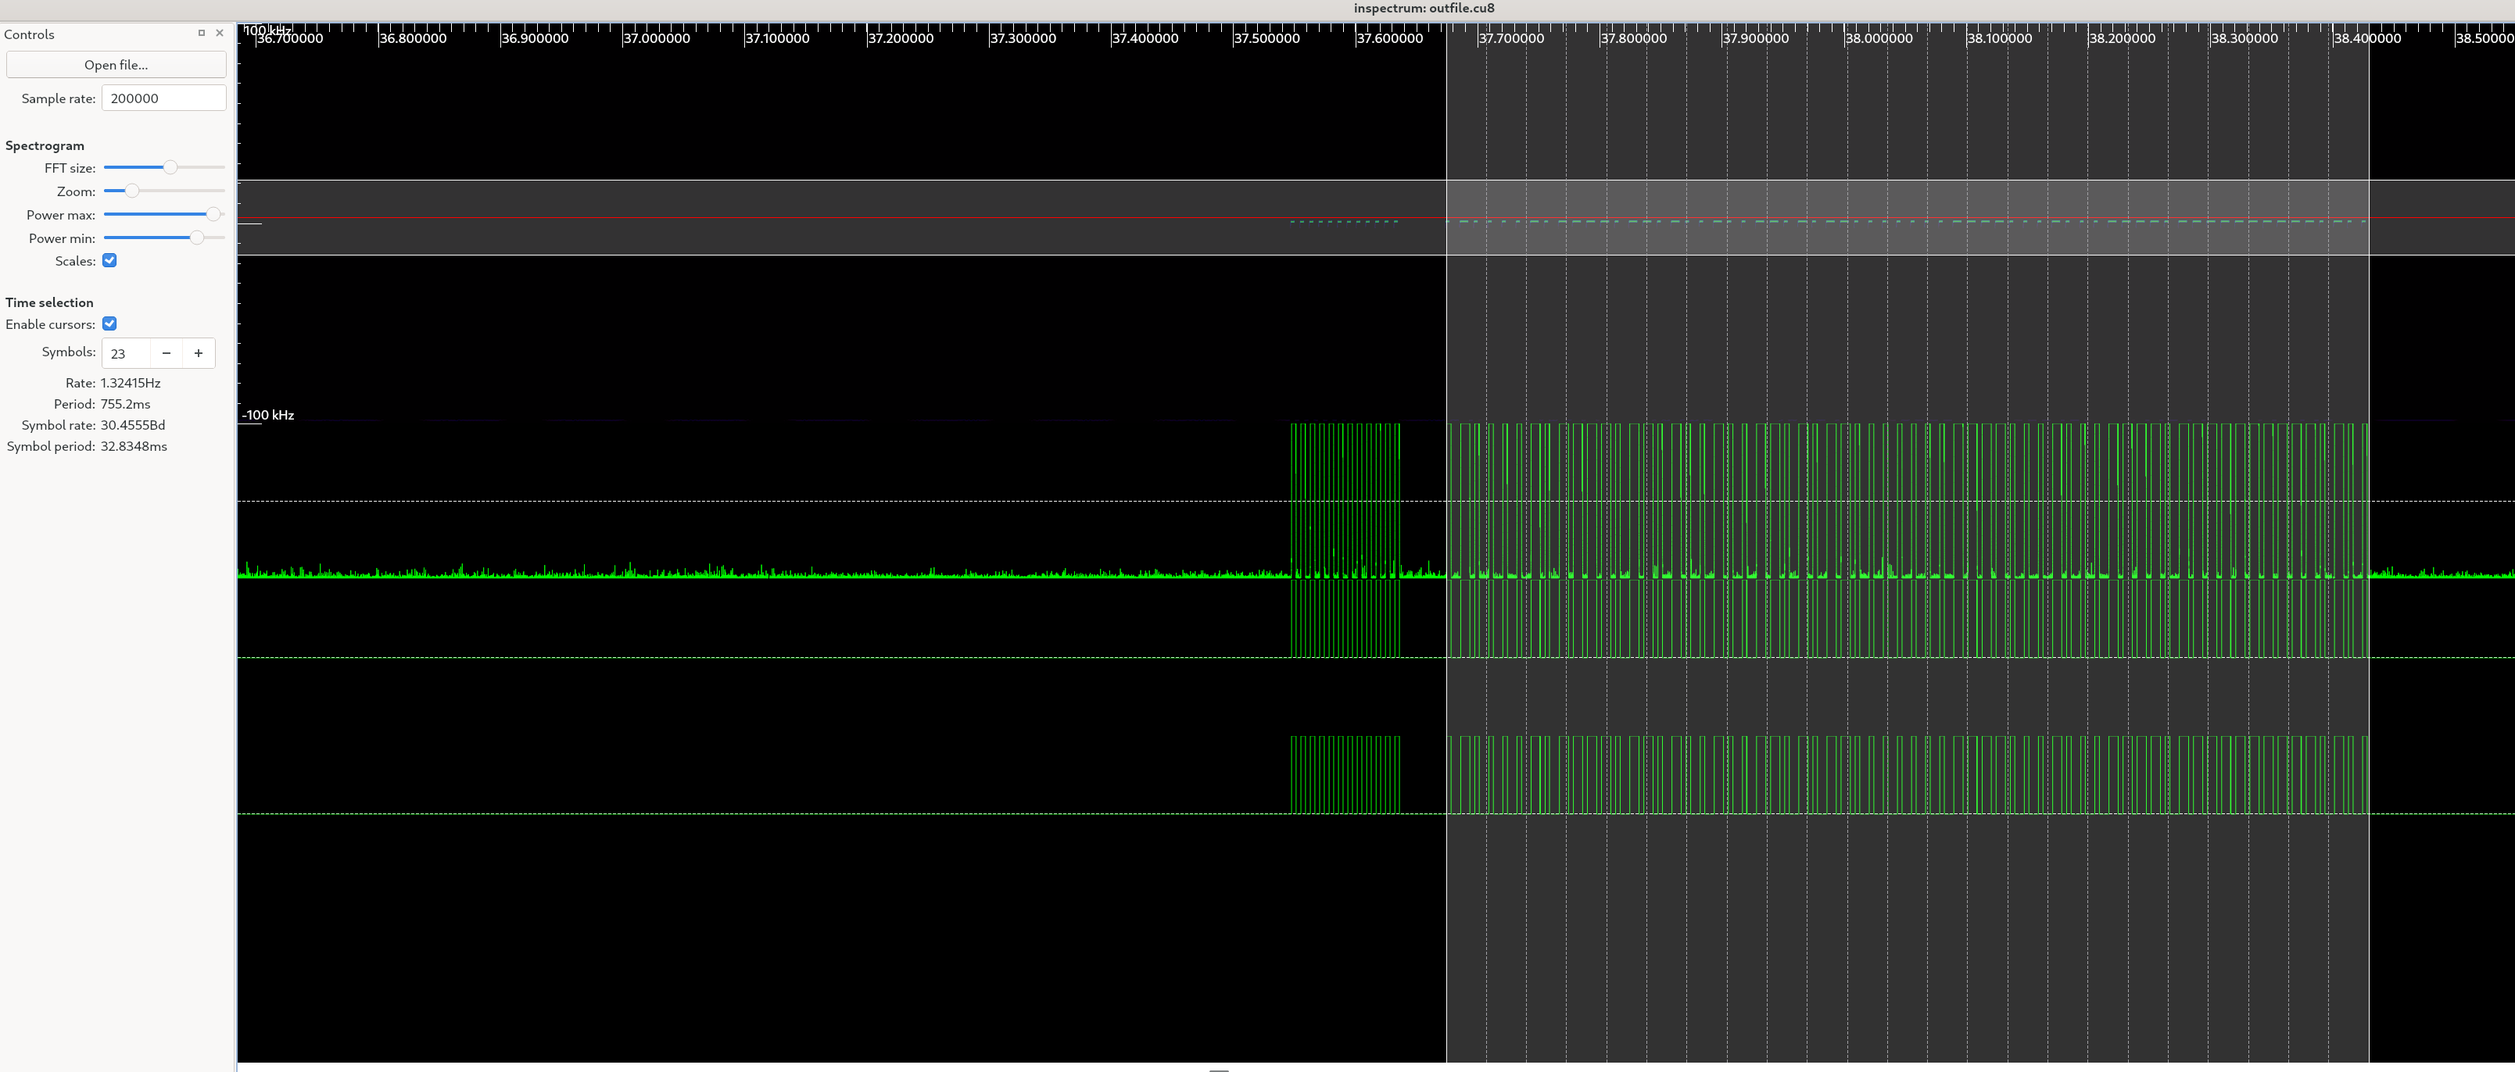
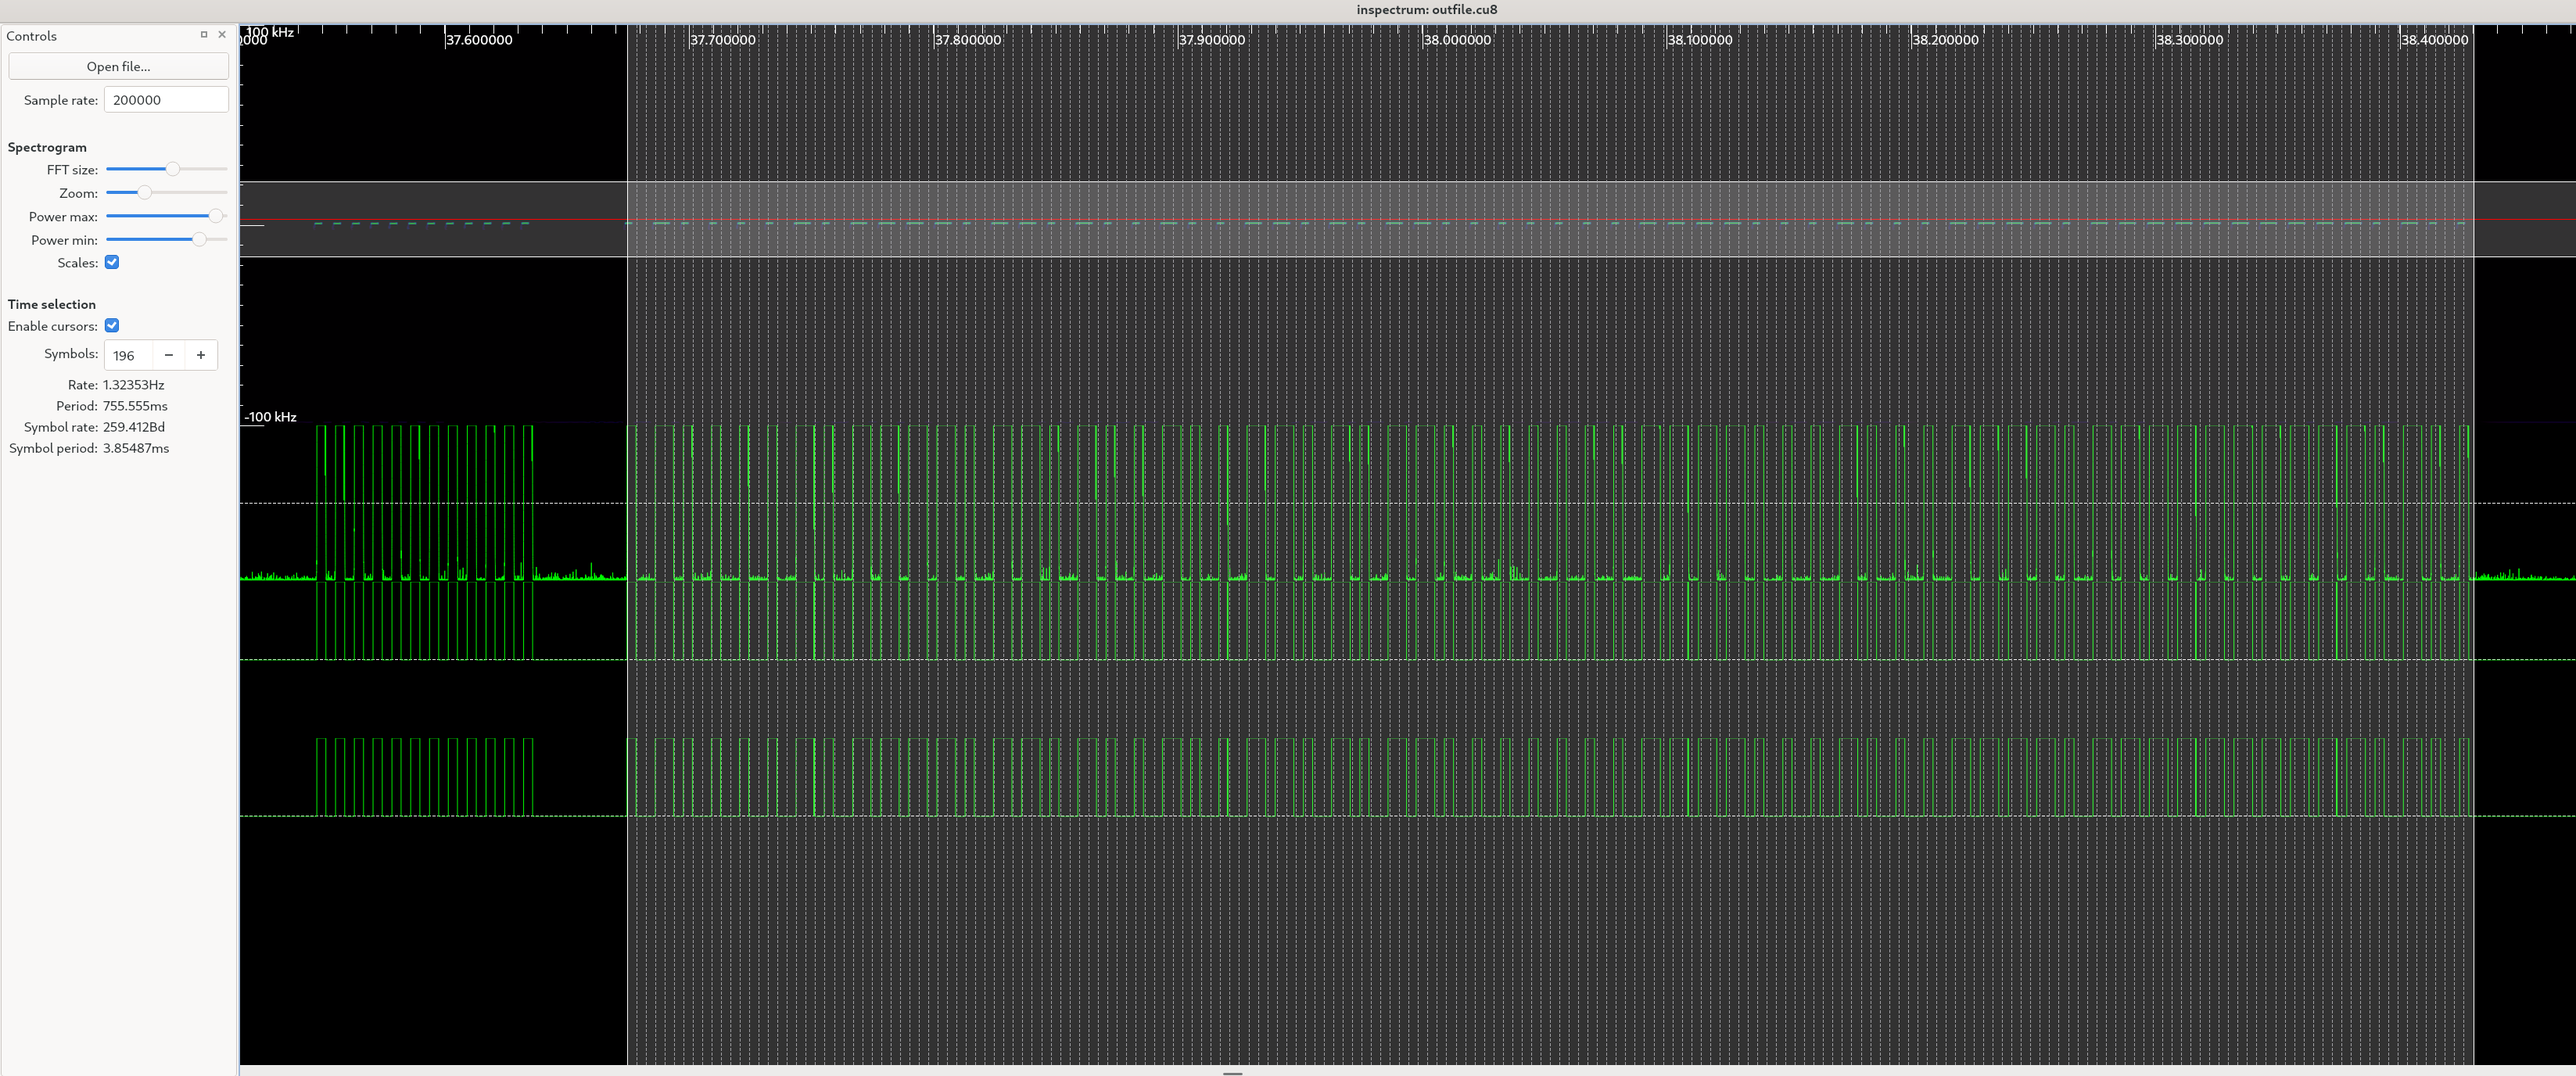
Update incorrect data cursor image and output data

diff --git a/doc/rf.md b/doc/rf.md
@@ -964,14 +964,18 @@ generate values:
 ```console
 1, 0, 1, 0, 1, 0, 1, 0, 1, 0, 1, 0, 1, 0, 1, 0, 1, 0, 1, 0, 1, 0, 1,
 ```
-So this does look like a preable, alternating 1 and 0.
+So this does look like a preable, alternating 1 and 0. The above gave us a
+symbol rate. We can move the cursor to the next section and then use the `+`
+button to increase the size of the cursor but still keeping the symbol rate
+(at least I think this is how to do it).
 
 Now, we can to the same with the next signals:
 
 ![Inspectrum Data Cursors image](./img/inspectrum-data-cursor.png "Inspectrum data cursors image")
 
 ```console
-1, 1, 1, 0, 0, 0, 0, 0, 1, 1, 0, 0, 0, 1, 1, 1, 0, 0, 1, 1, 1, 1, 1,
+1, 1, 1, 0, 0, 0, 0, 0, 1, 1, 0, 0, 0, 1, 1, 1, 0, 0, 1, 1, 1, 1, 1, 
+1, 0, 0, 1, 1, 0, 1, 0, 0, 1, 0, 0, 1, 0, 0, 1, 0, 0, 1, 1, 0, 1, 0, 0, 1, 1, 0, 1, 1, 0, 1, 1, 0, 1, 1, 0, 1, 0, 0, 1, 1, 0, 1, 1, 0, 1, 0, 0, 1, 1, 0, 1, 0, 0, 1, 0, 0, 1, 1, 0, 1, 0, 0, 1, 0, 0, 1, 1, 0, 1, 1, 0, 1, 0, 0, 1, 1, 0, 1, 0, 0, 1, 1, 0, 1, 1, 0, 1, 0, 0, 1, 0, 0, 1, 0, 0, 1, 0, 0, 1, 0, 0, 1, 0, 0, 1, 0, 0, 1, 1, 0, 1, 1, 0, 1, 1, 0, 1, 1, 0, 1, 0, 0, 1, 0, 0, 1, 0, 0, 1, 1, 0, 1, 0, 0, 1, 0, 0, 1, 0, 0, 1, 1, 0, 1, 1, 0, 1, 1, 0, 1, 1, 0, 1, 0, 0, 1, 1, 0, 1, 1, 0, 1, 1, 0, 1, 1, 0, 1, 1, 0, 1, 1, 0, 1, 1, 0, 1, 1, 0, 1, 1, 0, 1, 1, 0, 1, 0, 0, 1, 0, 0, 0, 0, 0, 0, 
 ```
 
 _work in progress_
